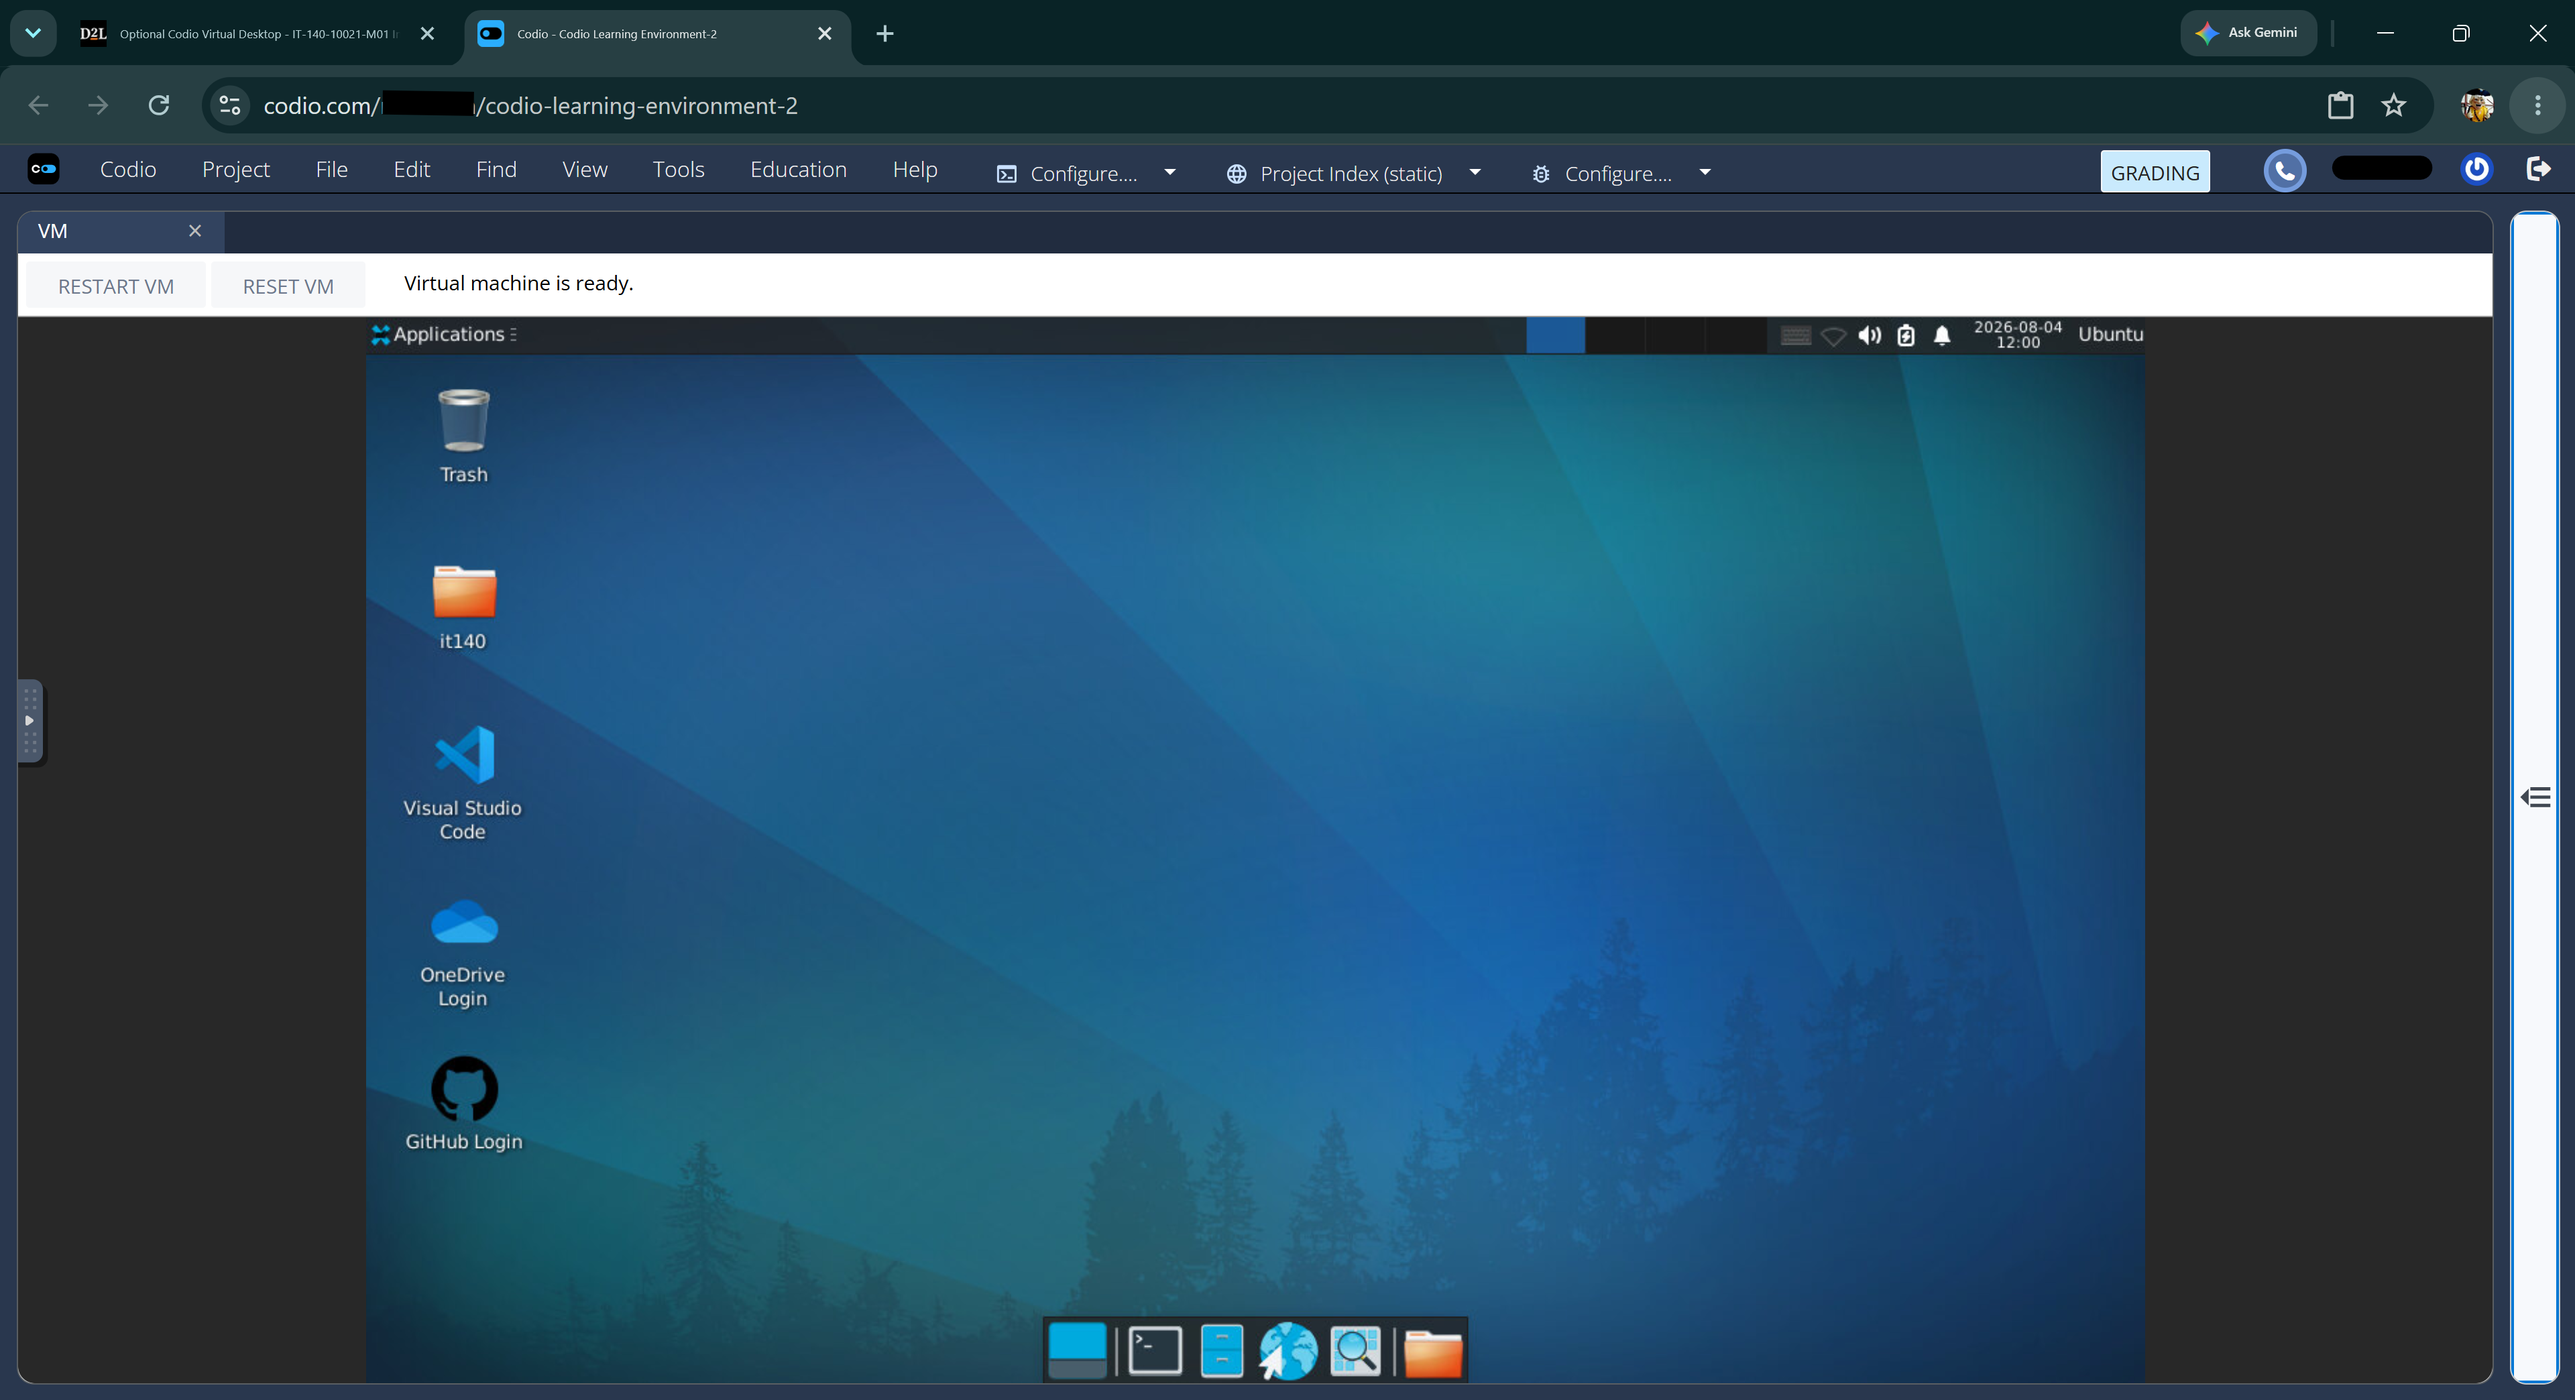
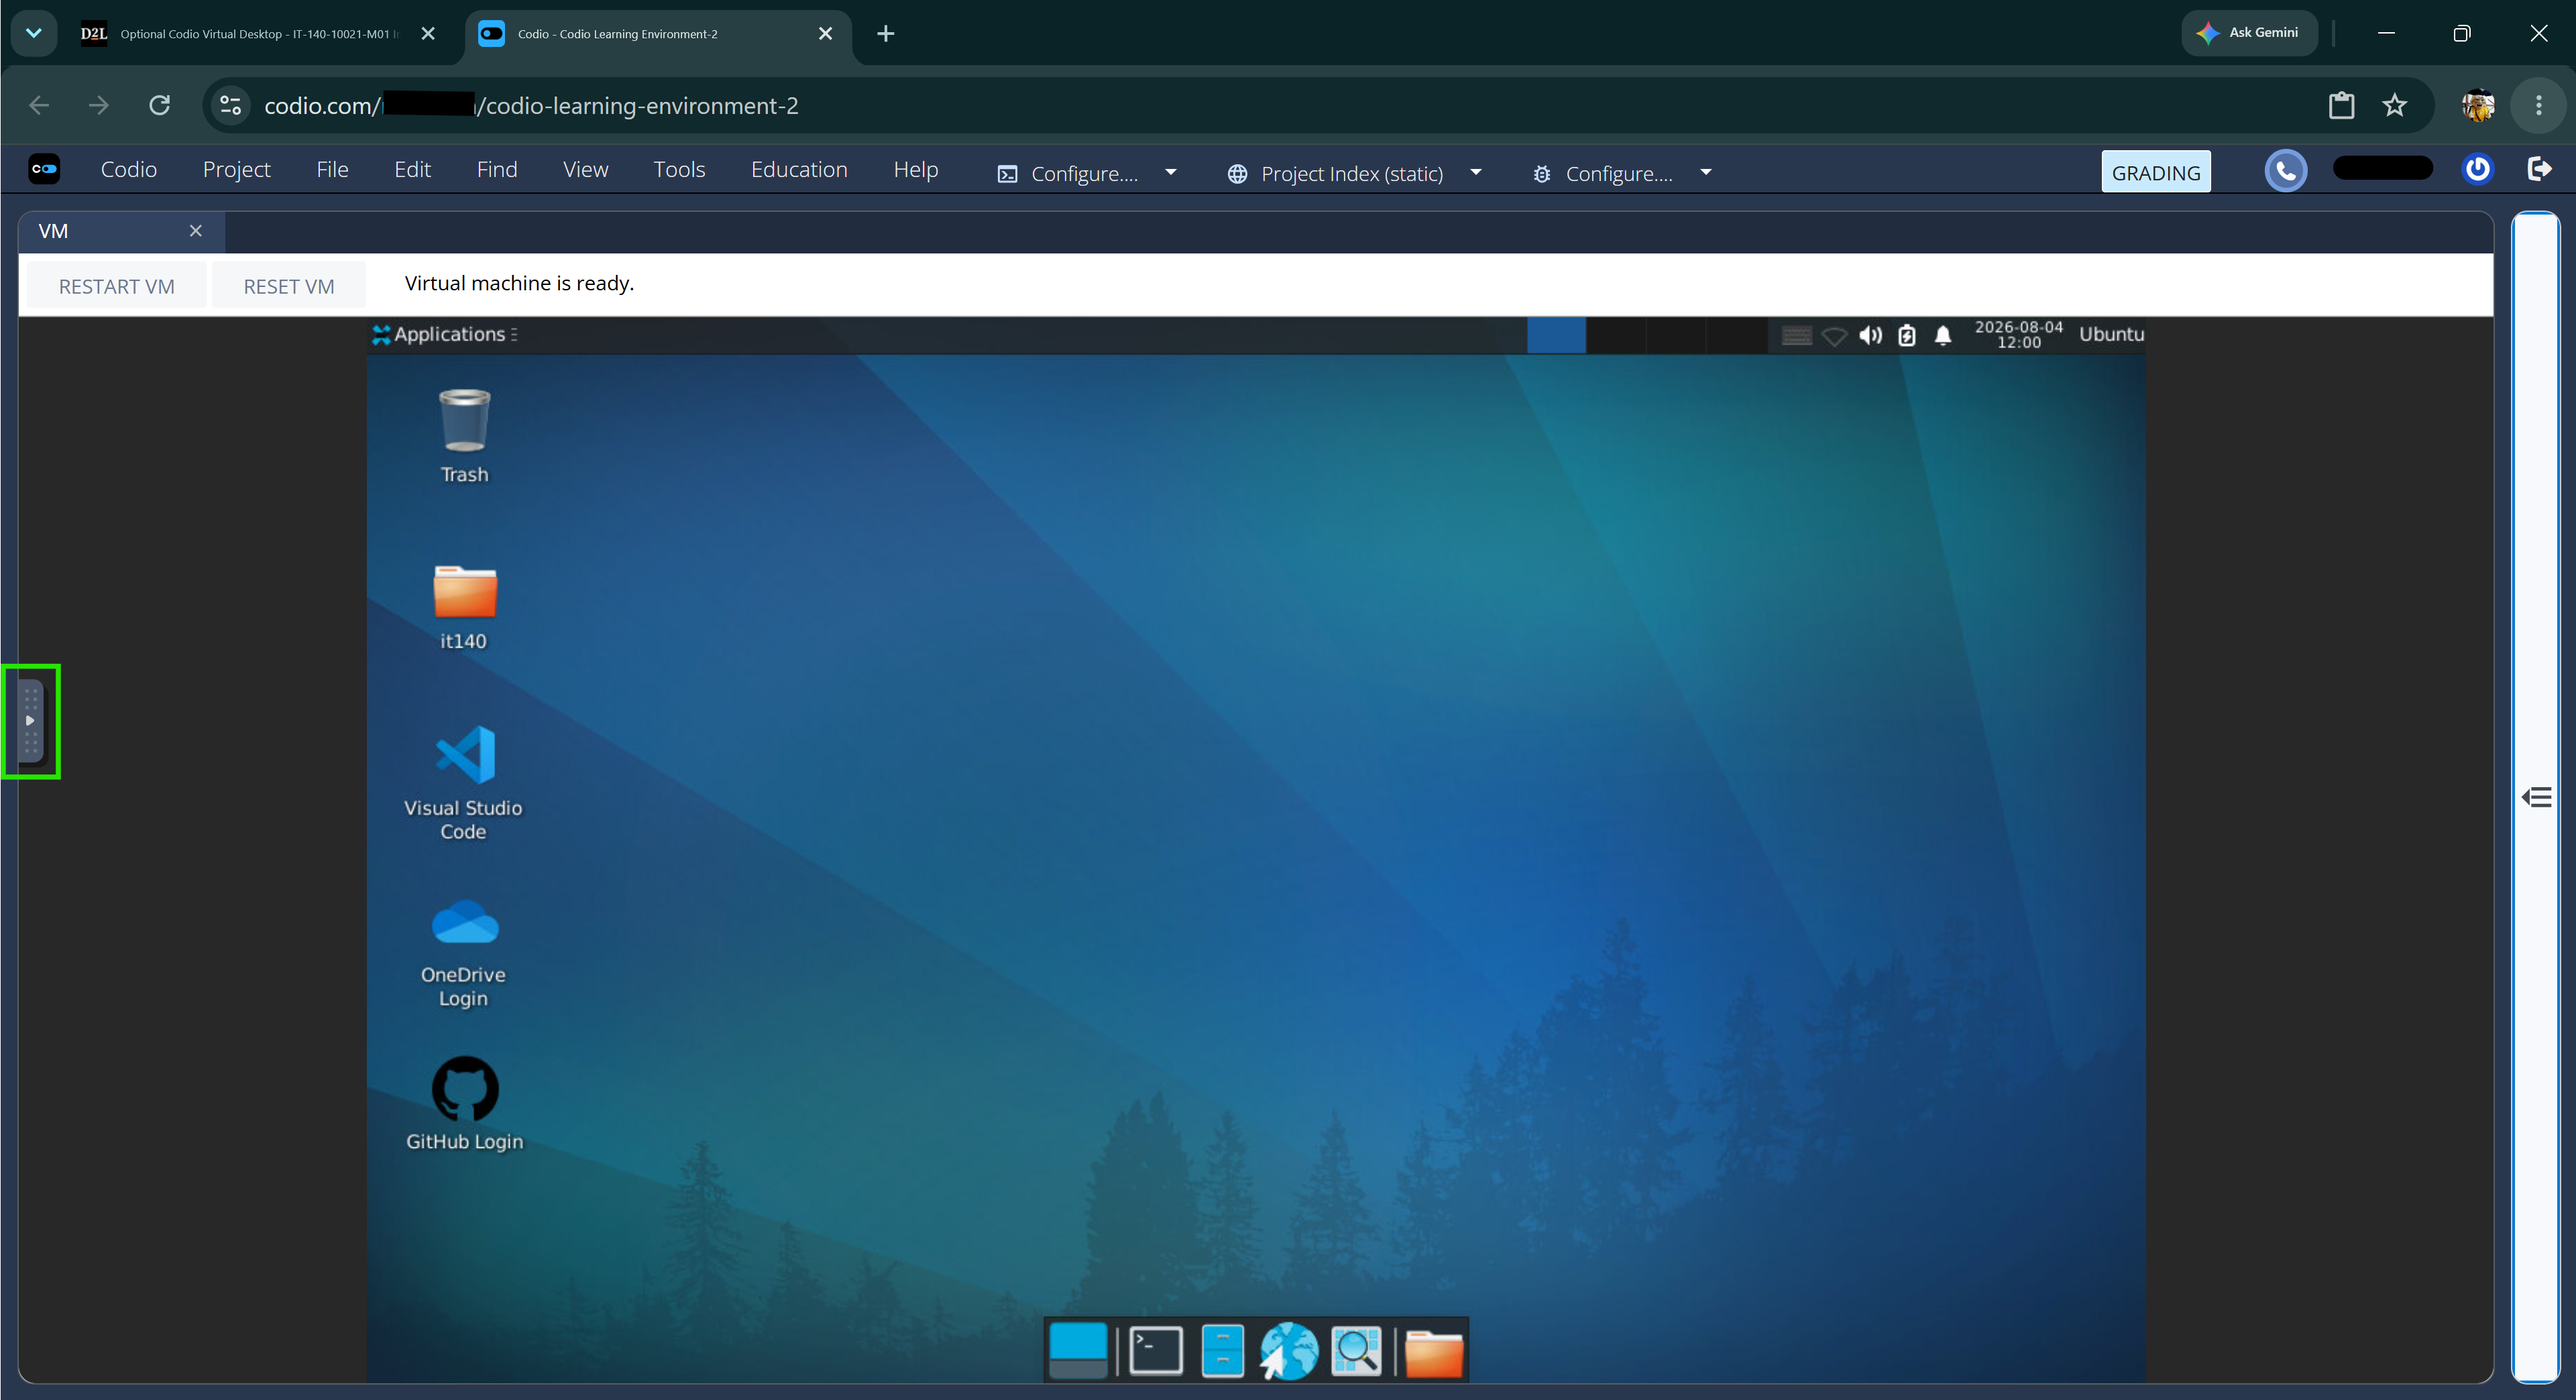
Update README for clarity and consistency; remove outdated screenshots

diff --git a/codio/README.md b/codio/README.md
@@ -13,7 +13,7 @@
   - [What is a Codio Virtual Desktop (CVD)?](#what-is-a-codio-virtual-desktop-cvd)
   - [0. Prerequisites](#0-prerequisites)
   - [1. Launch the Codio Virtual Desktop (CVD)](#1-launch-the-codio-virtual-desktop-cvd)
-  - [2. Sign into Cloud Storage Services (Optional)](#2-sign-into-cloud-storage-services-optional)
+  - [2. Sign into Cloud Storage Services](#2-sign-into-cloud-storage-services)
   - [3. Download the Course Automation Scripts to the CVD](#3-download-the-course-automation-scripts-to-the-cvd)
   - [4. Update the CVD](#4-update-the-cvd)
   - [5. Configure the CVD](#5-configure-the-cvd)
@@ -38,13 +38,16 @@ Even if you plan to complete most of your work on your own computer, launch and 
 
 To complete CVD configuration, you will need the following:
 
-- [ ] Access to an IT 140 course in D2L Brightspace
+- [ ] Access to an IT 140 course in D2L Brightspace.
 
-- [ ] GitHub credentials (username, password, noreply email address)
+- [ ] GitHub credentials (username or email, password, GitHub noreply email address).
 
-- [ ] SNHU credentials (email, password), if using OneDrive for persistent storage
+- [ ] Google credentials (email, password), if using Google Workspace for sync and persistent storage.
 
-- [ ] Google credentials (email, password), if using Google Workspace for account sync and persistent storage
+- [ ] Microsoft credentials (email, password), if using OneDrive for persistent storage. You can use:
+  
+  - Your SNHU email address and password, or
+  - Your personal Microsoft email address and password.
 
 > [!TIP]
 > You can find your GitHub username at [https://github.com/settings/profile](https://github.com/settings/profile)
@@ -91,33 +94,37 @@ To complete CVD configuration, you will need the following:
 
 9. Expand the Codio Virtual Desktop (CVD) window to full screen for a better view of the CVD desktop.
 
-   1. Click the Hide/Show button for the noVNC control bar on the middle left side of the CVD window.
+   1. Click the **Show** button (►) to show the noVNC control bar. It is on the middle left side of the CVD window. See the screenshot above for the location of the noVNC **Show** button.
 
-   2. Click the middle **Full Screen** button the noVNC control bar to expand the CVD window to full screen.
+   2. Click the middle **Full Screen** button the noVNC control bar to expand the CVD window to full screen, as shown in the screenshot below.
 
-   3. Click the **Full Screen** button again to exit full screen mode.
+   3. Click the **Hide** button (◄) to hide the noVNC control bar.
 
-   4. Use the screen size which you prefer. You can always change it later.
+   4. Press **Esc** to exit full screen mode.
+
+   5. Use the screen size which you prefer. You can always change it depending on your needs.
 
    ![Codio Virtual Desktop noVNC control menu](./assets/13_cvd_it140_novnc_menu.png)
 
    *Important*. The **Full Screen** button is the only button on the noVNC control bar that you will likely need. Do **NOT** change any settings for the noVNC control bar. If you do, you may not be able to reconnect to it.
 
-10. Bookmark the Codio Virtual Desktop (CVD) page in your local browser for direct access later.
+10. In your host/local browser, bookmark the Codio Virtual Desktop (CVD) for direct access later.
 
-## 2. Sign into Cloud Storage Services (Optional)
+## 2. Sign into Cloud Storage Services
+
+You should have access to at least one cloud storage service to be able to share files between your local computer and the CVD. SNHU recommends using your school-issued Microsoft OneDrive, but you may use any provider or any combination of your choice. However, only instructions for Microsoft OneDrive and Google Drive are provided.
 
 1. Double-click on the "OneDrive" icon on the CVD desktop to open the OneDrive login page in Chrome. Be patient, as it may take a few seconds for the browser to open.
 
-2. Sign into Chrome using your Google Account credentials if you wish to synchronize your Google Account settings, bookmarks, and extensions with the CVD, or use G-Drive as persistent storage. Otherwise, you may skip this step.
+2. **Optional**. Sign into Chrome using your Google Account credentials if you wish to synchronize your Google Account settings, bookmarks, and extensions with the CVD, or use G-Drive as persistent storage. Otherwise, you may skip this step.
 
-3. Sign into OneDrive using your SNHU credentials if you wish to use OneDrive as persistent storage for your work in the CVD. Otherwise, you may skip this step. If you choose to sign into OneDrive, follow the steps below:
+3. Sign into OneDrive using either your SNHU credentials (recommended) or your personal Microsoft account if you wish to use OneDrive as persistent storage for your work in the CVD. Otherwise, you may skip this step. If you choose to sign into OneDrive, follow the steps below:
 
-   1. Enter your SNHU email address and click **Next**.
+   1. Enter your email address (SNHU or personal) and click **Next**.
 
       ![OneDrive Sign In - Enter username](./assets/51_cvd_onedrive_signin.png)
 
-   2. Enter your SNHU password and click **Sign in**.
+   2. Enter your password (SNHU or personal) and click **Sign in**.
 
       ![OneDrive Sign In - Enter password](./assets/52_cvd_onedrive_password.png)
 
@@ -136,7 +143,7 @@ To complete CVD configuration, you will need the following:
 4. Close the browser and/or OneDrive window in the CVD when done signing into OneDrive and/or Chrome.
 
 > [!NOTE]
-> The first time you double-click on the OneDrive icon, you may see an **Untrusted application launcher** warning. If you see this window, click **Make Executable**.
+> The first time you double-click on a desktop icon, you may see an **Untrusted application launcher** warning. If you see this window for preinstalled applications or applications you install, click **Make Executable**.
 >
 > ![Untrusted Application Launcher Warning](./assets/56_cvd_untrusted_app_launcher.png)
 
@@ -205,7 +212,7 @@ To complete CVD configuration, you will need the following:
 
    ![Paste Warning in CVD Terminal](./assets/24_cvd_terminal_paste_warning.png)
 
-5. You should now see the pasted commands in the terminal window. With the terminal window selected, press **Enter** to run the pasted commands.
+5. You should now see the pasted commands in the terminal window. Do **NOT** type anything else in the terminal window or the commands may fail. Click anywhere in the terminal window and press **Enter** to run the pasted commands. The commands will run automatically.
 
    ![Run Commands in CVD Terminal](./assets/25_cvd_terminal_pasted.png)
 
@@ -215,7 +222,7 @@ To complete CVD configuration, you will need the following:
 
       ![Success Message in CVD Terminal](./assets/26_cvd_terminal_bootstrap_success.png)
 
-   - If the terminal window closes unexpectedly, reopen it and repeat Steps 2-6 again making sure you copy and paste the entire command set.
+   - If the terminal window closes unexpectedly, reopen it and repeat Steps 2-6 again making sure you copy and paste the entire command set without introducing any additional keystrokes into the commands.
 
    - If you see an `ERROR` message, repeat Steps 2-6 making sure you copy and paste the entire command set.
 
@@ -230,7 +237,7 @@ To complete CVD configuration, you will need the following:
 ## 4. Update the CVD
 
 > [!IMPORTANT]
-> If you update the CVD after starting work on course activities, save your work on another platform, such as GitHub, OneDrive, or your local computer, before running the update script. This protects your work in case the update fails and the VM must be reset. You do not need to create a backup if you have not saved any work in the CVD yet.
+> If you update the CVD after starting work on course assignments, save your work on another platform, such as GitHub or OneDrive, before running the update script. This protects your work in case the update fails and the VM must be reset. You do not need to create a backup if you have not saved any work in the CVD yet.
 
 1. Click once on the **Terminal** icon in the CVD taskbar to open a new terminal window.
 
@@ -256,11 +263,11 @@ To complete CVD configuration, you will need the following:
 
    1. Save any open work and close all windows in the CVD.
 
-   2. If you are in full screen mode, exit full screen mode by clicking the **Full Screen** button in the noVNC control bar.
+   2. If you are in full screen mode, exit full screen mode by pressing the **Esc** key.
 
-   3. In the upper-left corner of the VM tab, click **RESTART VM** on the VM tab menu bar.  
+   3. In the upper-left corner of the VM tab, click **RESTART VM** on the VM tab menu bar.
 
-   4. If prompted, click **YES** to confirm that you want to restart the VM.
+   4. If prompted, click **YES** to confirm that you want to restart the VM. If prompted to enter a confirmation code, click **Cancel**. You clicked the **RESET VM** button by mistake.
 
    5. Wait for the CVD to restart and reconnect. This may take a few minutes.
 
@@ -274,7 +281,7 @@ To complete CVD configuration, you will need the following:
 
    ![Configure IDE Script in CVD Terminal](./assets/42_cvd_terminal_configure1.png)
 
-3. Press **Enter** again to start GitHub authentication. Type **C** to cancel.
+3. Press **Enter** again to start GitHub authentication. Type **C** to cancel. Note that GitHub Authentication is a time-sensitive process. If you do not complete the authentication process in a timely manner, the script will fail and you will need to re-run it.
 
    ![Configure IDE Script in CVD Terminal](./assets/43_cvd_terminal_gh_auth1.png)
 
@@ -282,11 +289,9 @@ To complete CVD configuration, you will need the following:
 
    ![Open Link in Browser](./assets/44_cvd_terminal_gh_auth2.png)
 
-5. Sign into GitHub using your GitHub credentials or continue with Google or Apple, if you linked one of those accounts to your GitHub account.
+5. Sign into GitHub using your GitHub credentials or continue with Google or Apple, if you previously linked one of those accounts to your GitHub account.
 
    ![Sign into GitHub](./assets/45_cvd_terminal_gh_signin.png)
-
-   *Note*. If desired, you may sign into Google Chrome using your Google credentials to synchronize your Google account settings, passwords, bookmarks, and extensions with the CVD.
 
 6. **Optional**. If desired, you may save your password by signing into Google Chrome using your Google credentials. If not, you may skip this step.
 
@@ -316,7 +321,7 @@ To complete CVD configuration, you will need the following:
 
     ![Authorize GitHub CLI](./assets/49b_cvd_terminal_gh_auth_congrats.png)
 
-11. The terminal window should now display your pre-configured Git commit name. If you wish to change it, just type the new name at the prompt. If you want to accept the pre-configured name, just press **Enter**.
+11. The terminal window should now display your pre-configured Git commit name. If you wish to change it, just type the new name at the prompt. Remember to keep this name professional. If you want to accept the pre-configured name, just press **Enter**.
 
     ![Git Commit Name](./assets/49c_cvd_terminal_git_commit_name.png)
 
@@ -346,7 +351,7 @@ To complete CVD configuration, you will need the following:
    ![Welcome to Visual Studio Code](./assets/62_cvd_vsc_welcome.png)
 
    > [!NOTE]
-   > If you do not see the Welcome page, click the blue **Sign in** button on the VS Code menu bar. If there is no **Sign in** button, you are likely already signed in.
+   > If you do not see the Welcome page, go to the main menu bar and select **Help** > **Welcome** to open the Welcome page. The **Help** menu may be hidden behind the **...** menu on the right side of the main menu bar.
 
 4. If prompted to "Authorize Visual Studio Code", click **Continue**.
 
@@ -355,6 +360,8 @@ To complete CVD configuration, you will need the following:
    ![Open xdg-open](./assets/65_cvd_vsc_open_xdg.png)
 
 6. If prompted, select your color theme. Course screenshots and videos show the "Dark High Contrast" theme, but you may choose the theme you prefer. Just keep in mind that screenshots and videos may look different than your VS Code environment if you choose a different theme.
+
+   *Note*. For more accessible themes, see VS Code's [**Accessibility**](https://code.visualstudio.com/docs/configure/accessibility/accessibility) page.
 
 7. Click the **Get Started** button.
 
